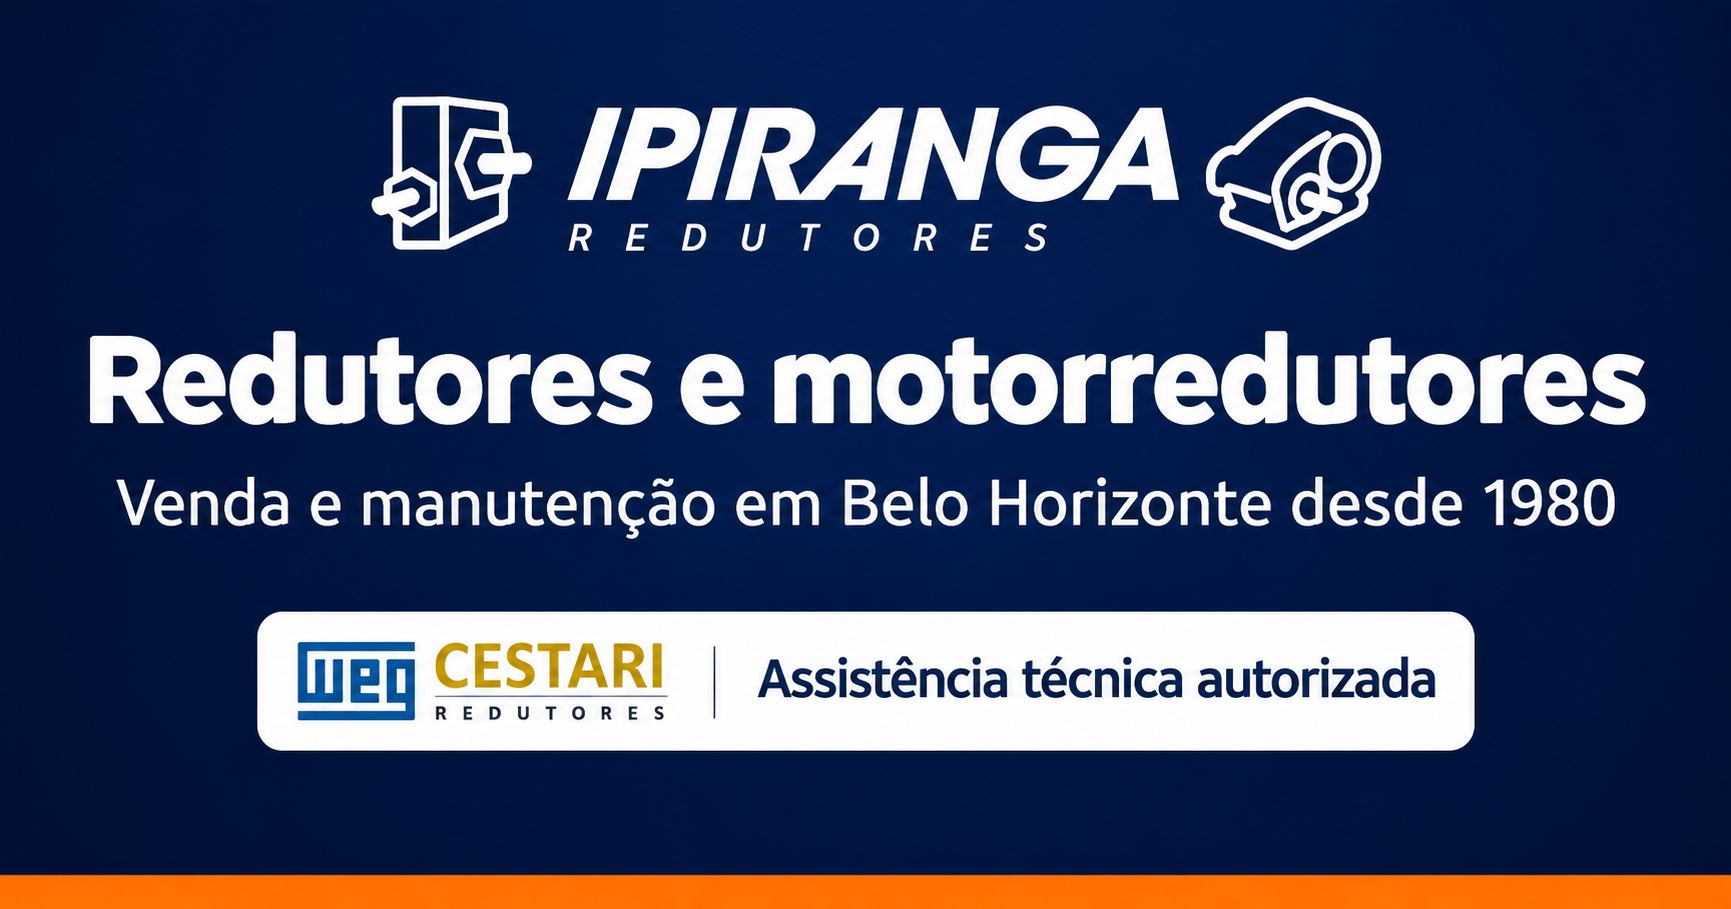
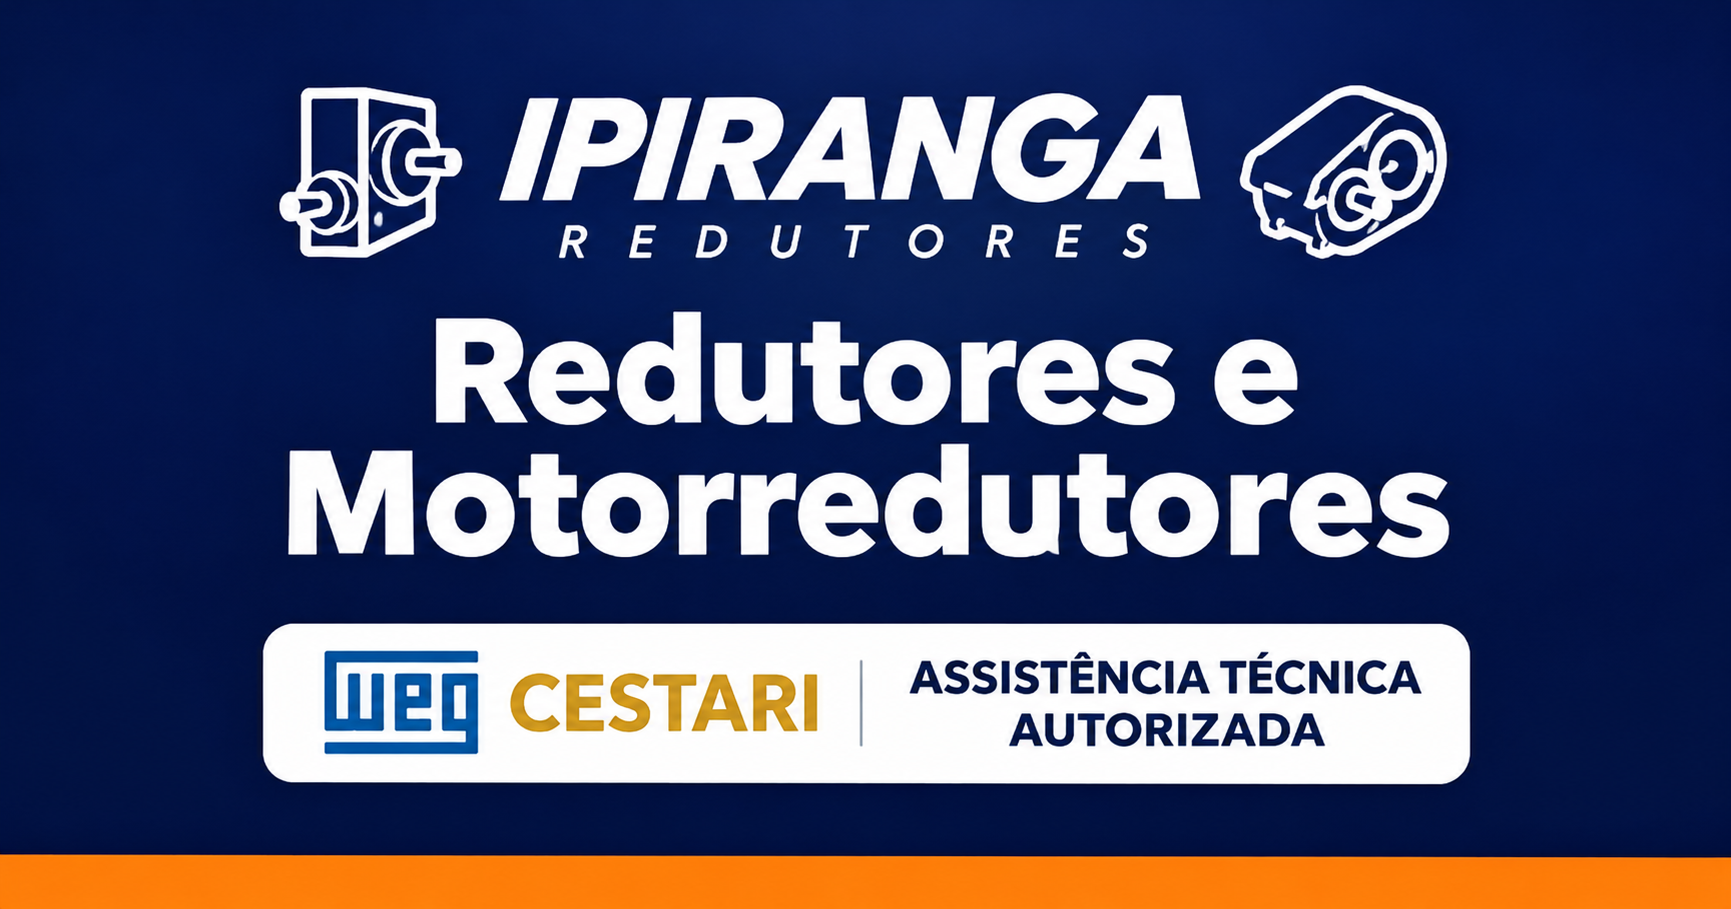
Prévia de link com a nova arte "Redutores e Motorredutores"
- og:image passa a ser redutores-e-motorredutores-ipiranga.jpg (1200 × 630,
  125 KB), com nome novo para o WhatsApp e o Facebook buscarem de novo
- og:image:alt acompanha o texto da arte
- Original em alta substituído em design/compartilhar-original.png

diff --git a/ROADMAP.md b/ROADMAP.md
@@ -58,7 +58,7 @@ Relatório completo no artefato "Auditoria SEO Ipiranga Redutores"
   - subir as mesmas fotos no Perfil da Empresa no Google (ver "Depois da virada").
 - [x] **Arte da prévia de link** (03/11/2026): `og:image` passou a ser uma arte com logo, "Redutores e
   motorredutores", "Venda e manutenção em Belo Horizonte desde 1980" e selo WEG-CESTARI
-  (`public/images/ipiranga-redutores-venda-e-assistencia-tecnica.jpg`, feita pela Ipiranga; original em alta em
+  (`public/images/redutores-e-motorredutores-ipiranga.jpg`, feita pela Ipiranga; original em alta em
   `design/compartilhar-original.png`). Tirar o selo se a WEG não permitir (ver "Regras do selo WEG").
 - [ ] **Validar o compartilhamento** depois de publicar: colar o link no WhatsApp e no
   https://developers.facebook.com/tools/debug/ (o Facebook guarda a imagem antiga em cache; usar "Scrape again").

diff --git a/public/images/fotos/LEIA-ME.md b/public/images/fotos/LEIA-ME.md
@@ -17,7 +17,7 @@ Os nomes descrevem a foto de propósito: o Google usa o nome do arquivo para ent
 Ao trocar uma foto, atualize em `src/pages/index.astro` a descrição dela (`alt`, o texto que o Google e os
 leitores de tela leem) e a largura e a altura, se mudarem.
 
-A imagem da prévia de link (`public/images/ipiranga-redutores-venda-e-assistencia-tecnica.jpg`) é uma arte
+A imagem da prévia de link (`public/images/redutores-e-motorredutores-ipiranga.jpg`) é uma arte
 com logo e textos, não uma foto. O original em alta fica em `design/compartilhar-original.png`. Para trocar:
 1200 × 630 px, JPG com menos de 300 KB (o WhatsApp ignora imagens pesadas), logo e textos perto do centro e
 um nome de arquivo novo (o WhatsApp e o Facebook guardam a imagem antiga pelo endereço).
